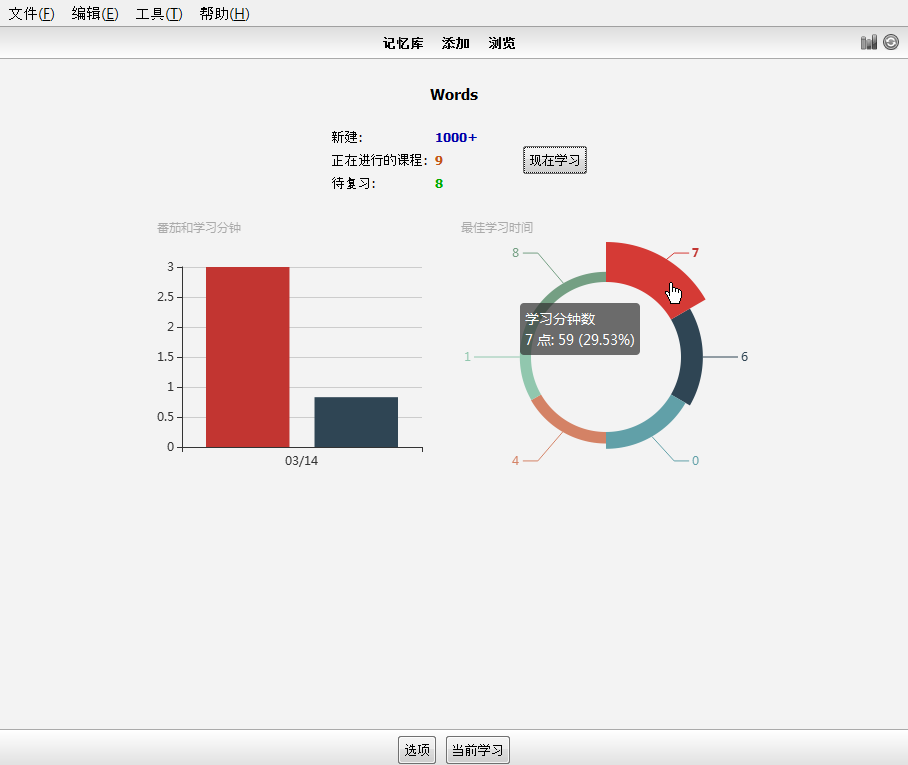
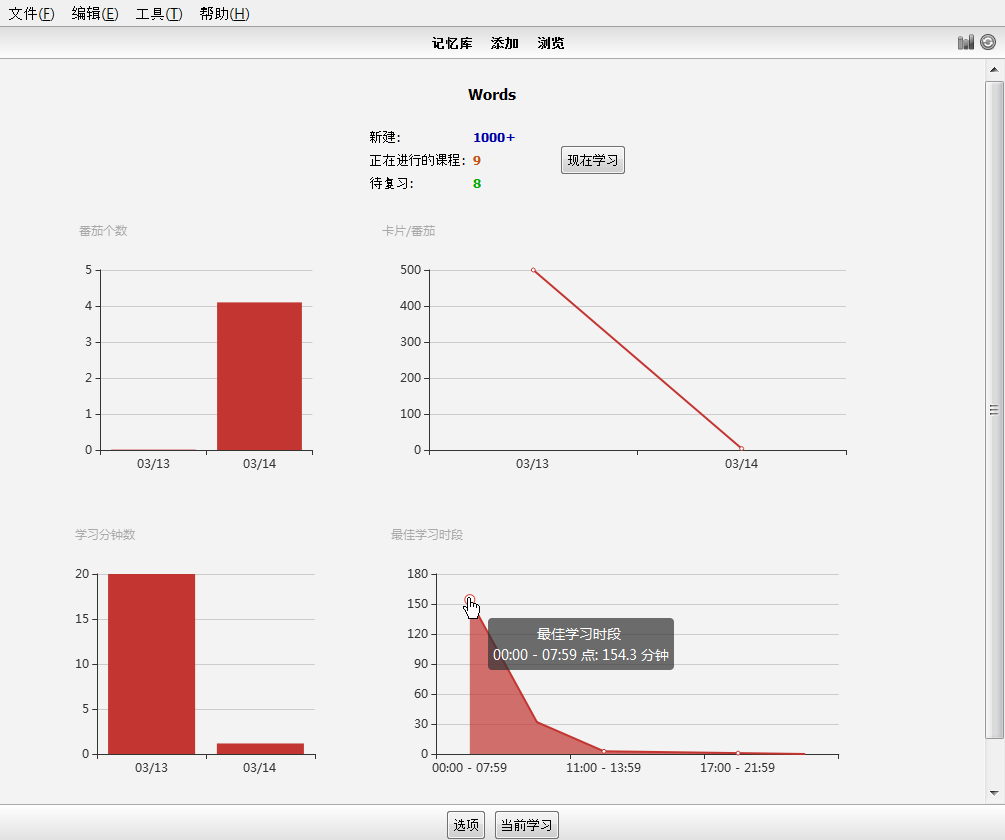
update charts

diff --git a/TomatoClock/lib/tomatostats.py b/TomatoClock/lib/tomatostats.py
@@ -8,12 +8,13 @@ from operator import itemgetter
 trans = {
     'TOMATO COLOCK': {'zh_CN': u'番茄时钟', 'en': u'Tomato Clock'},
     "'Minutes Studied'": {'zh_CN': u"'学习分钟数'", 'en': u"'Minutes Studied'"},
-    "'Best Focus Hour'": {'zh_CN': u"'最佳学习时间'", 'en': u"'Best Focus Hour'"},
+    "'Best Focus Hour'": {'zh_CN': u"'最佳学习时段'", 'en': u"'Best Focus Hour'"},
     "'Count of Tomatoes and Minutes'": {'zh_CN': u"'番茄和学习分钟'",
                                         'en': u"'Count of Tomatoes and Minutes'"},
     "'Tomato Count'": {'zh_CN': u"'番茄个数'", 'en': u"'Tomato Count'"},
-    "'{a} <br/>{b} Clock: {c} ({d}%)'": {'zh_CN': u"'{a} <br/>{b} 点: {c} ({d}%)'",
-                                         'en': u"'{a} <br/>{b} Clock: {c} ({d}%)'"},
+    "'Productivity'": {'zh_CN': u"'卡片/番茄'", 'en': u"'Cards/Tomato'"},
+    "'{a} <br/>{b} Clock: {c} Minutes'": {'zh_CN': u"'{a} <br/>{b} 点: {c} 分钟'",
+                                          'en': u"'{a} <br/>{b} Clock: {c} Minutes'"},
 }
 
 
@@ -42,14 +43,19 @@ class TomatoStats:
             from .db import TomatoDB
             assert isinstance(db, TomatoDB)
         self.db = db
+        self._data_by_dates = []
 
     def reports(self):
         html = """
         %s
-        <table>
-            <tr width=100%%>
-                    <td width=300px height=300px id=tomato_count></td>
-                    <td width=300px height=300px id=tomato_hour></td>
+        <table width=95%% align=center>
+            <tr>
+                <td width=300px height=300px id=tomato_cnt align=center></td>
+                <td width=300px height=300px id=cards_per_tomato_cnt align=center></td>
+            </tr>
+            <tr >
+                <td width=300px height=300px id=study_minute align=center></td>
+                <td width=600px height=300px id=tomato_hour align=center></td>
             </tr>
         </table>
         %s
@@ -60,8 +66,10 @@ class TomatoStats:
         </script>
         """.format(u"".join(
             [
+                self._chart_tomato_cnt(),
                 self._chart_tomato_hour(),
-                self._chart_tomato_count()
+                self._chart_study_minute(),
+                self._chart_cards_per_tomato_cnt()
             ]
         )))
 
@@ -82,61 +90,126 @@ class TomatoStats:
     def report_days(self):
         return (datetime.datetime.now() + datetime.timedelta(days=-7)).date()
 
-    def _chart_tomato_count(self, ):
-        _list_data = self.db.execute(
-            """
-            SELECT
-              strftime('%m/%d', ts.tomato_dt)                                                                   TOMATO_DT,
-              sum(round((strftime('%s', ts.ended) - strftime('%s', ts.started)), 2)) /60.0                     MINS,
-              round(sum((strftime('%s', ts.ended) - strftime('%s', ts.started)) / round(ts.target_secs, 2)), 2) COUNT
-            FROM tomato_session ts
-            WHERE ended IS NOT NULL AND
-                  round((strftime('%s', ts.ended) - strftime('%s', ts.started)), 2)
-                  >= ts.target_secs
-                  AND date(ts.tomato_dt) >= ?
-                  AND ts.deck = ?
-            GROUP BY strftime('%m/%d',ts.tomato_dt)
-            """, self.report_days, self.db.deck['id']).fetchall()
+    @property
+    def data_by_dates(self):
+        if not self._data_by_dates:
+            _list_data = self.db.execute(
+                """
+                select
+                  TOMATO_DT,
+                  sum(TOMATO_MINS) TT_TOMATO_MINS,
+                  sum(TARGET_MINS) TT_TGT_MINS,
+                  sum(TOMATO_CNT)  TT_TOMATO_CNT,
+                  sum(CARDS_CNT)   TT_CARDS_COUNT
+                from (SELECT
+                        strftime('%m/%d', ts.tomato_dt)                                                    TOMATO_DT,
+                        (strftime('%s', ts.ended) - strftime('%s', ts.started)) / 60.0                     TOMATO_MINS,
+                        ts.target_secs / 60.0                                                              TARGET_MINS,
+                        (strftime('%s', ts.ended) - strftime('%s', ts.started)) / round(ts.target_secs, 1) TOMATO_CNT,
+                        (select count(*)
+                         from tomato_session_item tsi
+                         where ts.id = tsi.session_id)                                                     CARDS_CNT
+                      FROM tomato_session ts
+                      WHERE ended IS NOT NULL 
+                              AND date(ts.tomato_dt) >= ?
+                              AND ts.deck = ?)
+                GROUP BY TOMATO_DT
+                """, self.report_days, self.db.deck['id']).fetchall()
 
-        if not _list_data:
-            return ''
+            if not _list_data:
+                self._data_by_dates = [[], [], [], [], []]
+
+            x_dt_labels = ["'%s'" % i[0] for i in _list_data]
+            y_tomato_count = [round(i[3], 2) for i in _list_data]
+            y_tomato_min = [round(i[2], 2) for i in _list_data]
+            y_tomato_target_min = [round(i[1], 2) for i in _list_data]
+            y_cards_count = [round(i[4], 2) for i in _list_data]
+
+            self._data_by_dates = [x_dt_labels, y_tomato_count, y_tomato_min, y_tomato_target_min, y_cards_count]
+        return self._data_by_dates
+
+    def _chart_study_minute(self, ):
+        (x_dt_labels, y_tomato_count,
+         y_tomato_min, y_tomato_target_min, y_cards_count
+         ) = self.data_by_dates
+        if not x_dt_labels:
+            return
 
         conf = dict(
             tooltip=dict(
                 trigger="'item'",
             ),
             title={
-                # "text": "'Count of Tomatoes and Minutes'",
-                "subtext": _("'Count of Tomatoes and Minutes'")
+                "subtext": _("'Minutes Studied'")
             },
-            # legend={"data": [u"'Tomato Count'", u"'Minutes Studied'"]},
-            xAxis=dict(data=["'%s'" % i[0] for i in _list_data]),
-            yAxis=[
-                dict(type="'value'",
-                    # name=_("'Tomato Count'"),
-                     position="'left'"),
-                dict(type="'value'",
-                    # name=_("'Minutes Studied'"),
-                     position="'right'")
-            ],
+            xAxis=dict(data=x_dt_labels),
+            yAxis={},
             series=[
                 dict(
-                    name=_("'Tomato Count'"),
-                    type=u"'bar'",
-                    yAxisIndex=0,
-                    data=[i[2] for i in _list_data]  # count of tomato
-                )
-                ,
-                dict(
                     name=_("'Minutes Studied'"),
-                    type=u"'line'",
-                    yAxisIndex=1,
-                    data=[i[1] for i in _list_data]  # minutes
+                    type=u"'bar'",
+                    data=y_tomato_min
                 )
             ]
         )
 
-        return self._graph("tomato_count", conf)
+        return self._graph("study_minute", conf)
+
+    def _chart_tomato_cnt(self, ):
+        (x_dt_labels, y_tomato_count,
+         y_tomato_min, y_tomato_target_min, y_cards_count
+         ) = self.data_by_dates
+        if not x_dt_labels:
+            return
+
+        conf = dict(
+            tooltip=dict(
+                trigger="'item'",
+            ),
+            title={
+                "subtext": _("'Tomato Count'")
+            },
+            xAxis=dict(data=x_dt_labels),
+            yAxis={},
+            series=[
+                dict(
+                    name=_("'Tomato Count'"),
+                    type=u"'bar'",
+                    data=y_tomato_count
+                )
+            ]
+        )
+
+        return self._graph("tomato_cnt", conf)
+
+    def _chart_cards_per_tomato_cnt(self):
+        (x_dt_labels, y_tomato_count,
+         y_tomato_min, y_tomato_target_min, y_cards_count
+         ) = self.data_by_dates
+
+        if not x_dt_labels:
+            return
+
+        y_cards_per_tomato = [round(a / b, 2) for a, b in zip(y_cards_count, y_tomato_count)]
+
+        conf = dict(
+            tooltip=dict(
+                trigger="'item'",
+            ),
+            title={
+                "subtext": _("'Productivity'")
+            },
+            xAxis=dict(type="'category'",
+                       data=x_dt_labels),
+            yAxis=dict(type="'value'"),
+            series=[dict(
+                name=_("'Productivity'"),
+                data=y_cards_per_tomato,
+                type="'line'",
+                smoth=True), ]
+        )
+
+        return self._graph("cards_per_tomato_cnt", conf)
 
     def _chart_tomato_hour(self, ):
         _list_data = self.db.execute(
@@ -178,44 +251,47 @@ class TomatoStats:
                 [16, 0.9],
                 [17, 0.9]
             ]
-        _list_data = sorted(_list_data, key=itemgetter(1), reverse=True)[:6]
+        _list_data = sorted(_list_data, key=itemgetter(0))
+        time_slots = [
+            '00:00 - 07:59',
+            '08:00 - 10:59',
+            '11:00 - 13:59',
+            '14:00 - 16:59',
+            '17:00 - 21:59',
+            '21:00 - 23:59',
+        ]
+        time_slots_range = [
+            (0, 7),
+            (8, 11),
+            (11, 14),
+            (14, 17),
+            (17, 21),
+            (21, 24),
+        ]
+
+        mins_stutied = [0] * time_slots.__len__()
+        for i, val in enumerate(_list_data):
+            min = val[1]
+            for slot_i, time_slot_rng in enumerate(time_slots_range):
+                if time_slot_rng[0] <= val[0] < time_slot_rng[1]:
+                    mins_stutied[slot_i] = mins_stutied[slot_i] + round(min, 2)
 
         conf = dict(
             tooltip=dict(
                 trigger="'item'",
-                formatter=_("'{a} <br/>{b} Clock: {c} ({d}%)'")
+                formatter=_("'{a} <br/>{b} Clock: {c} Minutes'")
             ),
             title={
                 # "text": "'Count of Tomatoes and Minutes'",
                 "subtext": _("'Best Focus Hour'")
             },
-            series=[
-                dict(
-                    name=_("'Minutes Studied'"),
-                    type="'pie'",
-                    roseType="'area'",
-                    # center=["'45%'", "'45%'"],
-                    radius=["'50%'", "'70%'"],
-                    avoidLabelOverlap=True,
-                    label=dict(
-                        # normal=dict(
-                        #     show=False,
-                        #     position="'center'"),
-
-                        emphasis=dict(show=True,
-                                      textStyle=dict(
-                                          # fontSize="'30'",
-                                          fontWeight="'bold'"))
-                    ),
-                    labelLine=dict(
-                        normal=dict(
-                            show=True
-                        )
-                    ),
-                    data=[
-                        dict(value=row[1], name="'%s'" % int(row[0])) for row in _list_data
-                    ]
-                )
-            ]
+            xAxis=dict(type="'category'",
+                       data=["'%s'" % i for i in time_slots]),
+            yAxis=dict(type="'value'"),
+            series=[dict(
+                name=_("'Best Focus Hour'"),
+                data=mins_stutied,
+                type="'line'",
+                areaStyle={}), ]
         )
         return self._graph("tomato_hour", conf)

diff --git a/TomatoClock/lib/component.py b/TomatoClock/lib/component.py
@@ -78,25 +78,25 @@ class anki_overview(Overview):
                 self.mw.col.sched.finishedMsg())
         else:
             return '''
-                    <table width=300 cellpadding=5>
-                        <td align=center valign=top>
-                            <table cellspacing=5>
-                            <tr><td>%s:</td><td><b><font color=#00a>%s</font></b></td></tr>
-                            <tr><td>%s:</td><td><b><font color=#C35617>%s</font></b></td></tr>
-                            <tr><td>%s:</td><td><b><font color=#0a0>%s</font></b></td></tr>
-                            </table>
-                        </td>
+                    <table width=300 cellpadding=5 valign=top>
+                        <tr>
+                            <td align=center valign=top>
+                                <table cellspacing=5>
+                                    <tr><td>%s:</td><td><b><font color=#00a>%s</font></b></td></tr>
+                                    <tr><td>%s:</td><td><b><font color=#C35617>%s</font></b></td></tr>
+                                    <tr><td>%s:</td><td><b><font color=#0a0>%s</font></b></td></tr>
+                                </table>
+                            </td>
+                            
+                            <td align=center>%s</td>
+                        </tr>
                         
-                        <td align=center>%s</td>
                     </table>
-                    <script>
-                        function show_tomato_chart(txt){
-                            $("#tomato_chart").innerHTML = txt;
-                        }
-                    </script>
-                    <div id=tomato_chart width=600px height=600px align=center valign=top>
-                        %s
-                    </div>
+                        
+                    <table id=tomato_chart  align=center valign=center>
+                        <td colspan=5>%s</td>
+                    </table>
+                        
                     ''' % (
                 anki.lang._("New"), counts[0],
                 anki.lang._("Learning"), counts[1],

diff --git a/TomatoClock/lib/constant.py b/TomatoClock/lib/constant.py
@@ -5,7 +5,7 @@ from anki.lang import currentLang
 
 ADDON_CD = 1608644302
 HAS_SET_UP = False
-DEBUG = False
+DEBUG = True
 MIN_SECS = 1 if DEBUG else 60
 __version__ = "0.1.7"
 STATISTICS_PY = "https://raw.githubusercontent.com/upday7/TomatoClock/master/TomatoClock/lib/tomatostats.py"
